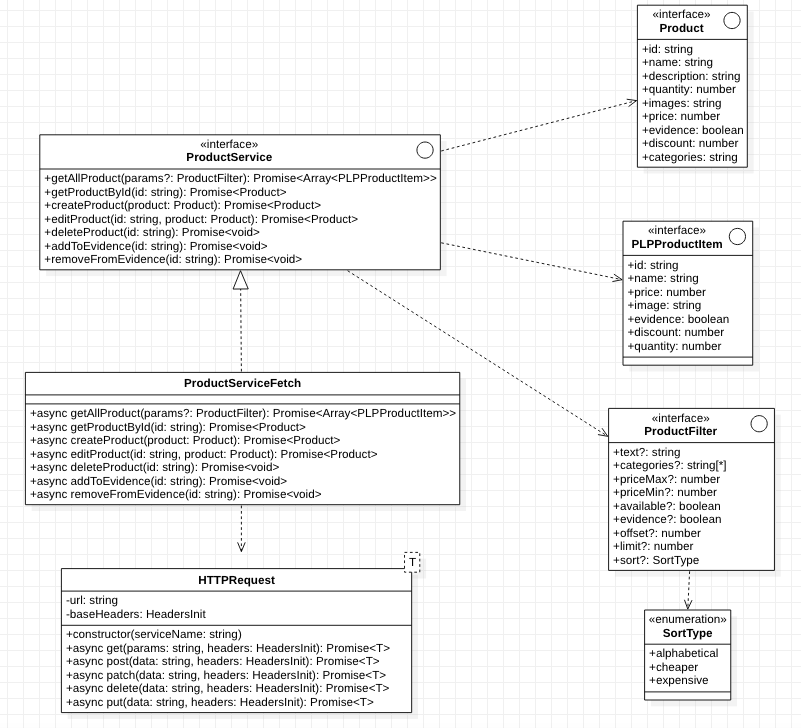
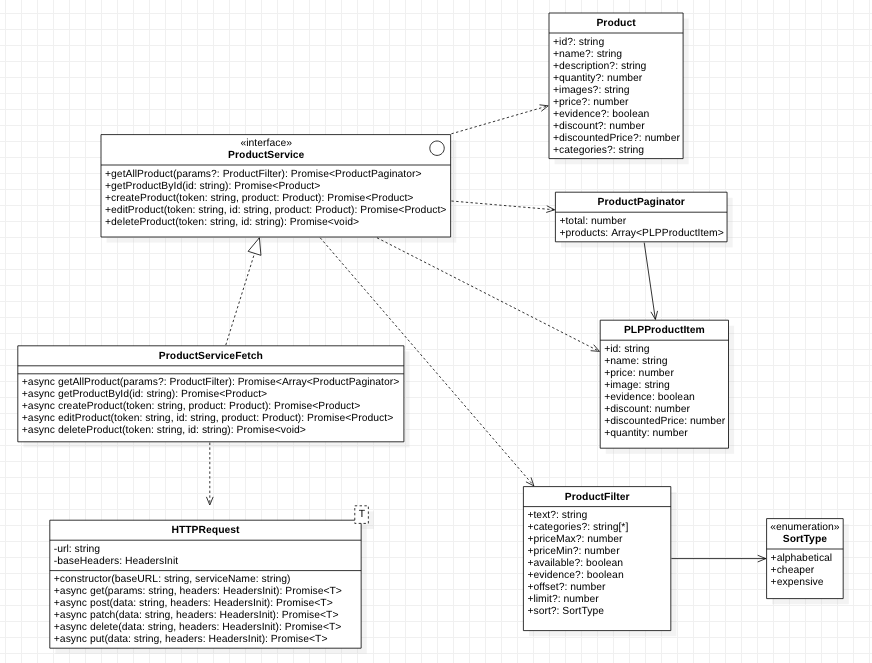
Iniziato ampliamento fe in MS

diff --git a/DocumentiPubblici/Manuali/ManualeSviluppatore/Sezioni/Frontend.tex b/DocumentiPubblici/Manuali/ManualeSviluppatore/Sezioni/Frontend.tex
@@ -1,15 +1,33 @@
 \newpage
 \section{Frontend}\label{Frontend}
 \subsection{Descrizione generale}
+L'architettura del front end prevede principalmente l'utente che interagisce con la piattaforma attraverso i componenti che costituiscono le pagine della stessa, queste a loro interagiscono con le funzioni previste dai microservizi che comunicano con il back end.
 \begin{figure}[H]
 	\centering
-	\includegraphics[scale=0.6]{Immagini/Frontend/DiagrammadeiPackage.png}
+	\includegraphics[scale=0.6]{Immagini/Frontend/fe.png}
+	\caption{Architettura front end}
+	\label{fig:fe}
+\end{figure}
+Attraverso l'utilizzo di Next.js, vengono utilizzati entrambi i tipi di pre-rendering dei dati: 
+\begin{itemize}
+	\item \textbf{static generation}: il sistema genera le pagine HTML a build time e vengono riusate ad ogni richiesta;
+	\item \textbf{server-side rendering}: il sistema genera le pagine HTML a ogni richiesta.
+\end{itemize}
+In \NomeProgetto\ vengono utilizzati i metodi:
+\begin{itemize}
+	\item \textbf{getStaticProps}: utilizzata per il data pre-fetching di tipo static genertion;
+	\item \textbf{getServerSideProps} utilizzata per il data pre-fetching di tipo server-side rendering.
+\end{itemize}
+\subsection{Diagramma dei package}
+\begin{figure}[H]
+	\centering
+	\includegraphics[scale=0.5]{Immagini/Frontend/DiagrammadeiPackage.png}
 	\caption{Diagramma dei package}
 	\label{fig:fe-packages}
 \end{figure}
 Il diagramma rappresenta le dipendenze tra le classi che individuano i \glo{microservizi}.
 Il package \textbf{interfaces} contiene tutti i tipi che verranno utilizzati dal frontend.
-La classe \textbf{HTTPRequest} è stata implementata per centralizzare le chiamate \glo{HTTP} e permettere il controllo dei tipi, consiste in un wrapper della libreria nativa fetch andando a ridefinire i metodi GET, POST, PATCH, PUT e DELETE. Ottiene la variabile d'ambiente contenente l'url del server dal file di configurazione relativo di dotenv, dal costruttore gli verrà passato l'url alla specifica \glo{API} il quale verrà aggiunto all'url precedente e su questo sarà possibile invocare i metodi precedentemente dichiarati.
+La classe \textbf{HTTPRequest} è stata implementata per centralizzare le chiamate \glo{HTTP} e permettere il controllo dei tipi, consiste in un wrapper della libreria nativa fetch andando che ridefinisce i metodi GET, POST, PATCH, PUT e DELETE. Ottiene la variabile d'ambiente contenente l'url del server dal file di configurazione relativo di dotenv, dal costruttore gli verrà passato l'url alla specifica \glo{API} il quale verrà aggiunto all'url precedente e su questo sarà possibile invocare i metodi precedentemente dichiarati.
 Il package \textbf{services} rappresenta l'unico punto di collegamento tra i microservizi del backend e il frontend, tramite \glo{API} redatte utilizzando SwaggerHub, i vari servizi al suo interno andranno a invocare HTTPRequest per comunicare con il backend attraverso i metodi definiti.
 I microservizi individuati e utilizzati per il frontend sono:
 \begin{itemize}
@@ -19,6 +37,14 @@ I microservizi individuati e utilizzati per il frontend sono:
 	\item \textbf{Orders;}
 	\item \textbf{Carts.}
 \end{itemize}
+\subsection{Services}
+Ogni package presente all'interno del package services contiene il \glo{microservizio} che, invocando l'HTTPRequest, comunica con il \glo{back end}. Ogni servizio contiene funzioni publiche asincrone, per questo motivo il tipo di ritorno è una Promise.
+\begin{figure}[H]
+	\centering
+	\includegraphics[scale=0.5]{Immagini/Frontend/ClassiService.png}
+	\caption{Classi Service}
+	\label{fig:feService}
+\end{figure}
 \subsubsection{Esempio di funzionamento}
 Di seguito si riporta il diagramma delle classi relativo al funzionamento del microservizio \textbf{product}. Come si può vedere è presente un'interfaccia ProductService che viene implementata dalla classe ProductServiceFetch e ogni suo metodo istanzia un oggetto HTTPRequest per l'API di interesse. È possibile implementare l'interfaccia ProductService diversamente rispetto a quanto rappresentato senza la necessità di modificare il codice utilizzatore, attraverso la modifica della variabile d'ambiente NEXT\_PUBLIC\_SERVICE\_METHOD sarà possibile scegliere quale implementazione utilizzare altrimenti verrà di default selezionata l'implementazione ProductServiceFetch. 
 Per poter procedere con lo sviluppo della parte dei prodotti del frontend parallelamente con il backend, lo sviluppatore ha a disposizione la classe ProductServiceMock la quale ritornerà i dati predefiniti senza dover richiamare il server, basterà impostare la variabile NEXT\_PUBLIC\_SERVICE\_METHOD="mock".
